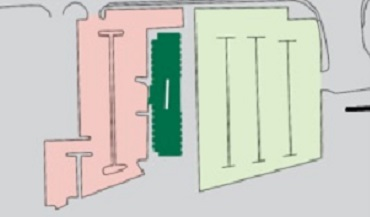
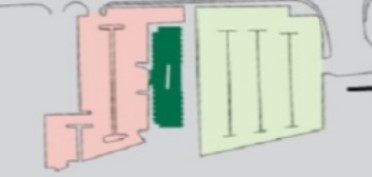
Resized images and added Forgot Password? button.

diff --git a/src/authentication/ForgotPassword.js b/src/authentication/ForgotPassword.js
@@ -1,0 +1,166 @@
+import { observer } from 'mobx-react';
+import { Dimensions, Button, Image, StyleSheet, Text, TextInput, View } from 'react-native';
+import { RootStoreContext } from '../stores/RootStore';
+import { TouchableOpacity } from 'react-native-gesture-handler';
+import auth from '@react-native-firebase/auth';
+import { firebase } from '@react-native-firebase/auth';
+import React, { useState, useEffect } from 'react';
+
+const { width: WIDTH } = Dimensions.get('window')
+const { height: HEIGHT } = Dimensions.get('window')
+
+export const ForgotPassword = observer(
+  ({ navigation, ...props }) => {
+    const RootStore = React.useContext(RootStoreContext);
+
+
+    return (
+
+
+      <View style={styles.background}>
+        <View style={styles.logoView}>
+          <Image style={styles.logo}
+            source={require("../../lib/images/ggc-logo.png")} />
+        </View>
+
+
+
+
+        <View style={styles.body}>
+
+
+
+          <Text style={styles.sectionTitle}>
+            Forgot Password?
+                </Text>
+          <View style={styles.sectionContainer}>
+
+            <Text style={styles.sectionHeader}>
+              Username
+                      </Text>
+            <TextInput style={styles.input}
+              
+              placeholder="Please enter your existing username."
+            >
+
+            </TextInput>
+
+            <Text style={styles.sectionHeader}>
+              New Password
+                      </Text>
+            <TextInput style={styles.input}
+              
+              placeholder="Please enter your new password:"
+            >
+
+            </TextInput>
+
+            <Text style={styles.sectionHeader}>
+              Confirm new Password
+                      </Text>
+            <TextInput style={styles.input}
+              secureTextEntry={true}
+              
+              placeholder="Confirm new password:"
+            >
+
+            </TextInput>
+
+          </View>
+        </View>
+        <TouchableOpacity style={styles.button}
+          onPress={() => RootStore.ForgotPasswordDomain.login(navigation)}>
+          <Text style={styles.buttonText}>
+            Confirm
+                    </Text>
+        </TouchableOpacity>
+      </View>
+    );
+  }
+);
+
+const styles = StyleSheet.create({
+    background: {
+      flex: 1,
+      flexDirection: "column",
+      alignItems: "center",
+      height: HEIGHT,
+      width: WIDTH,
+      backgroundColor: "#056f4b",
+  
+    },
+    logo: {
+      height: 50,
+      resizeMode: "contain",
+      marginTop: 14,
+      alignSelf: 'center',
+    },
+    logoView: {
+      borderRadius: 30,
+      borderColor: '#0A5A45',
+      borderWidth: 5,
+      backgroundColor: 'white',
+      marginTop: 20,
+      marginBottom: 20,
+      width: WIDTH - 80,
+      height: 90,
+    },
+  
+    body: {
+      backgroundColor: "#FFFFFF",
+      borderRadius: 5,
+      width: WIDTH - 30,
+      borderRadius: 30,
+      borderColor: '#0A5A45',
+      borderWidth: 5,
+    },
+    sectionContainer: {
+      marginTop: 20,
+      paddingHorizontal: 24,
+   
+  
+    },
+  
+    sectionHeader: {
+      fontSize: 22,
+      fontWeight: '600',
+      color: "#000000",
+      
+  
+    },
+    sectionTitle: {
+      fontSize: 30,
+      fontWeight: '700',
+      color: "#000000",
+      textAlign: 'center',
+      marginTop: 10,
+     
+  
+    },
+    input: {
+      height: 45,
+      width: WIDTH - 85,
+      padding: 15,
+      fontSize: 15,
+      borderColor: '#0A5A45',
+      borderWidth: 2,
+      borderRadius: 15,
+      marginBottom:10,
+      
+      
+    },
+    button: {
+      height: 50,
+      width: 150,
+      marginTop: 15,
+      borderRadius: 15,
+      backgroundColor: "#0A5A45",
+      justifyContent: "center",
+    },
+    buttonText: {
+      color: "#FFFFFF",
+      textAlign: "center",
+      fontSize: 16,
+      fontWeight: "bold",
+    },
+  });

diff --git a/src/authentication/Login.js b/src/authentication/Login.js
@@ -126,6 +126,13 @@ export const Login = observer(
                         </TouchableOpacity>
                     </View>
 
+                    <View>
+                        <TouchableOpacity style={styles.buttonForgotPassword}
+                            onPress={() => RootStore.LoginDomain.forgotPassword(navigation)}>
+                            <Text style={styles.forgotPasswordText}>Forgot password?</Text>
+                        </TouchableOpacity>
+                    </View>
+
                 </ImageBackground>
             </View>
         );
@@ -179,7 +186,18 @@ const styles = StyleSheet.create({
         width: WIDTH - 275,
         height: 22,
         borderRadius: 15,
-        margin: 5,
+        margin: 10,
+    },
+
+    forgotPasswordText: {
+        color: 'rgba(255,255,255,0.7)',
+        backgroundColor: 'rgba(0,180,150,0.15)',
+        textAlign: 'center',
+        fontSize: 15,
+        width: WIDTH - 235,
+        height: 22,
+        borderRadius: 15,
+        margin: 10,
     },
 
     inputBoxs: {

diff --git a/src/stores/ui/ForgotPasswordUI.js b/src/stores/ui/ForgotPasswordUI.js
@@ -1,0 +1,26 @@
+import { action, observable } from "mobx";
+
+export class ForgotPasswordUI {
+    rootStore;
+    constructor(rootStore) {
+        this.rootStore = rootStore;
+    }
+
+    //#region Observables
+    @observable email = "";
+
+    @observable password = "";
+
+    @observable confirmPassword = "";
+    //#endregion
+
+    //#region Functions
+    @action setEmail(string) { this.email = string }
+    @action setPassword(string) { this.password = string }
+    @action setConfirmPassword(string) { this.confirmPassword = string }
+    //#endregion
+}
+
+const strings = {
+
+};

diff --git a/src/stores/domain/ForgotPasswordDomain.js b/src/stores/domain/ForgotPasswordDomain.js
@@ -1,0 +1,19 @@
+import { observable, action } from "mobx";
+import { Alert } from "react-native";
+
+export class ForgotPasswordDomain {
+    rootStore;
+    constructor(rootStore) {
+        this.rootStore = rootStore;
+    }
+
+
+    @action
+    login(navigation) {
+        navigation.navigate("Login");
+    }
+}
+
+const strings = {
+
+};

diff --git a/src/stores/domain/LoginDomain.js b/src/stores/domain/LoginDomain.js
@@ -22,6 +22,11 @@ export class LoginDomain {
     createAccount(navigation) {
         navigation.navigate("CreateAccount");
     }
+
+    @action
+    forgotPassword(navigation) {
+        navigation.navigate("ForgotPassword");
+    }
     //#endregion
 
     // @action
